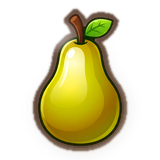
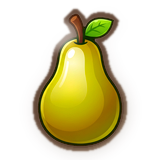
art(fruit): deeper enamel
A heavier shading falloff, a slightly larger specular and a fourth more colour: at 42 dp the fruit read
as pale cut-outs next to the reference's glazed ones, and the volume is the only part of that
difference a plate can be given without repainting it.

Changed region(s): [[0.375, 0.125, 0.5, 0.3125]]

diff --git a/godot-port/tools/import_gem_art.py b/godot-port/tools/import_gem_art.py
@@ -177,9 +177,9 @@ def _enamel(picture: Image.Image) -> Image.Image:
     down = coords[:, None]
 
     # 1. Shading: a diagonal falloff, strongest at the bottom right corner of the fruit.
-    shade = np.clip((across * 0.45 + down * 0.75) - 0.35, 0.0, 1.0) ** 1.3
+    shade = np.clip((across * 0.45 + down * 0.78) - 0.30, 0.0, 1.0) ** 1.15
     shading = Image.new("RGBA", (size, size), (46, 22, 8, 0))
-    shading.putalpha(Image.fromarray((shade * solid * 72.0).astype(np.uint8), "L"))
+    shading.putalpha(Image.fromarray((shade * solid * 92.0).astype(np.uint8), "L"))
     shading = shading.filter(ImageFilter.GaussianBlur(size * 0.045))
     out = Image.alpha_composite(picture, shading)
 
@@ -193,11 +193,11 @@ def _enamel(picture: Image.Image) -> Image.Image:
 
     # 2. Specular: brighter and larger than a soft smudge, with a hard-ish core.
     spec_mask = Image.new("L", (size, size), 0)
-    ImageDraw.Draw(spec_mask).ellipse((size * 0.24, size * 0.14, size * 0.46, size * 0.30), fill=255)
+    ImageDraw.Draw(spec_mask).ellipse((size * 0.22, size * 0.13, size * 0.48, size * 0.31), fill=255)
     spec_mask = spec_mask.filter(ImageFilter.GaussianBlur(size * 0.028))
     spec = np.asarray(spec_mask).astype(np.float32) / 255.0
     shine = Image.new("RGBA", (size, size), (255, 255, 255, 0))
-    shine.putalpha(Image.fromarray((np.clip(solid * spec, 0, 1) * 120.0).astype(np.uint8), "L"))
+    shine.putalpha(Image.fromarray((np.clip(solid * spec, 0, 1) * 142.0).astype(np.uint8), "L"))
     out = Image.alpha_composite(out, shine)
 
     # 3. Rim light: the inside of the silhouette on its lower right, where the table bounces back.
@@ -213,8 +213,8 @@ def _enamel(picture: Image.Image) -> Image.Image:
     # reads as washed out next to it.
     from PIL import ImageEnhance
     rgb = out.convert("RGB")
-    rgb = ImageEnhance.Color(rgb).enhance(1.20)
-    rgb = ImageEnhance.Contrast(rgb).enhance(1.07)
+    rgb = ImageEnhance.Color(rgb).enhance(1.26)
+    rgb = ImageEnhance.Contrast(rgb).enhance(1.10)
     rgb = rgb.convert("RGBA")
     rgb.putalpha(out.getchannel("A"))
     return rgb
